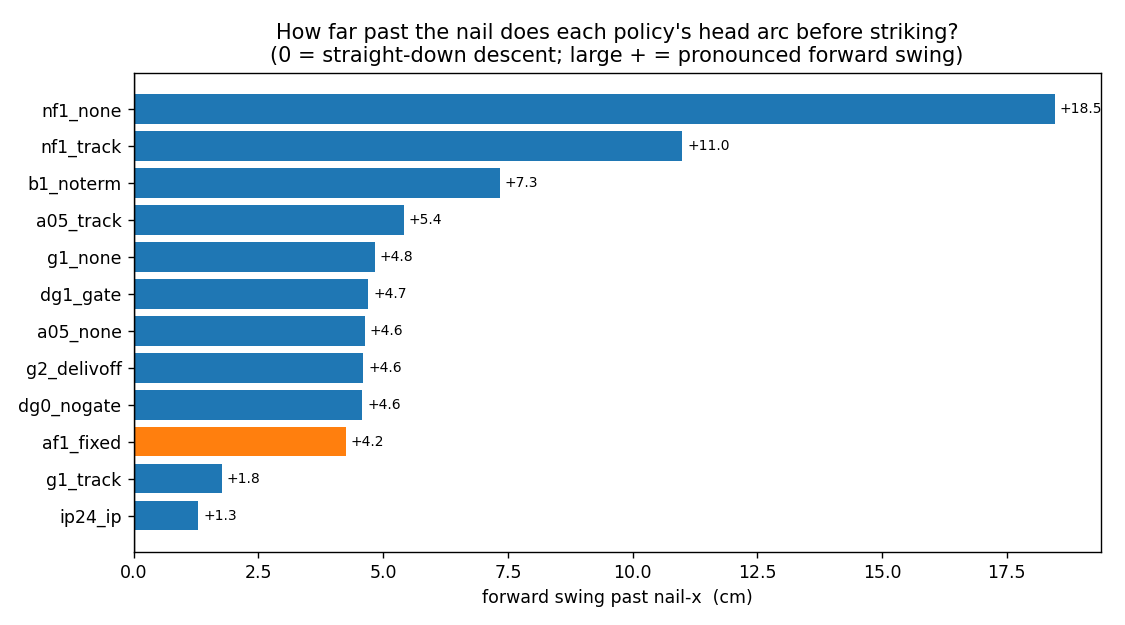
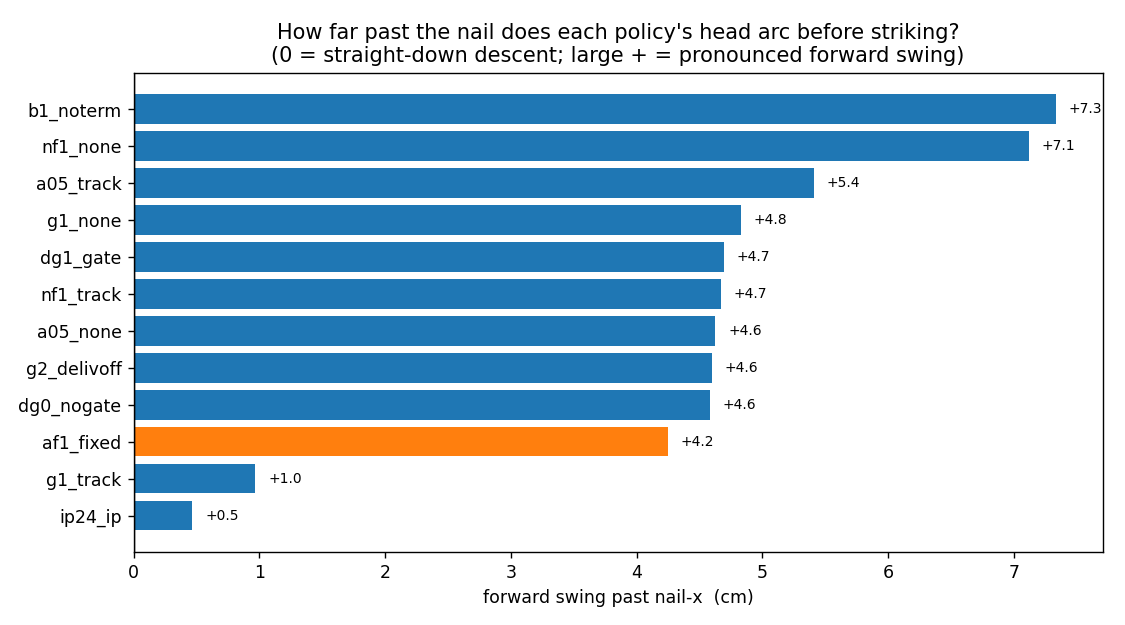
analysis(traj): fix swing metric to pre-contact only + add swing-vs-speed test
Gemini cross-check (SHOULD-FIX): grid/bar 'fwd-swing' maxed over the WHOLE path
but the caption claims 'before striking' -> for the non-resetting parkers (nf1)
the max is the post-tap fly-off, inflating the number (nf1_none 18.5cm) and
disagreeing with swing_vs_speed.py. Fixed: shared pre_swing() truncates to
first-contact (nf1_none now 7.1cm), matching swing_vs_speed. Also min(allz) ->
min(allz+[nail_z]) symmetry. New swing_vs_speed.py/.png: partial test of 'swing
is for impact maximization' -> swing does NOT buy contact speed (straightest
policies hit as fast), early evidence the arc is kinematic not speed-seeking.

diff --git a/docs/results/assets/2026-07-20_policy_videos/swing_vs_speed.py b/docs/results/assets/2026-07-20_policy_videos/swing_vs_speed.py
@@ -1,0 +1,49 @@
+"""Partial test of 'the swing is for impact maximization': on the already-traced July policies,
+does a bigger PRE-CONTACT forward swing buy a higher contact speed? Reads traj_all.json (substep
+head path at 2ms). Fixes the earlier metric: swing measured only UP TO first contact (so nf1's
+post-tap fly-off no longer contaminates it)."""
+from __future__ import annotations
+import json
+import matplotlib; matplotlib.use("Agg")
+import matplotlib.pyplot as plt
+
+IN = "/private/tmp/claude-501/-Users-nikerane-repos-unitree-rl-mjlab/2cd822e7-752b-4070-969b-f93a7bd62f87/scratchpad/traj_all.json"
+OUTDIR = "docs/results/assets/2026-07-20_policy_videos"
+DT = 0.002
+d = json.load(open(IN)); arms = d["arms"]; nail_x = d["nail_top"][0]
+
+rows = []
+for label, a in arms.items():
+    sub = a["substep"]  # [x,y,z,contact]
+    fc = next((i for i, p in enumerate(sub) if p[3]), None)
+    if fc is None or fc < 1:
+        rows.append((label, a["max_nail_mm"], float("nan"), float("nan"), None)); continue
+    v_touch = (sub[fc - 1][2] - sub[fc][2]) / DT          # downward speed at contact onset
+    swing_pre = max(p[0] for p in sub[:fc + 1]) - nail_x    # forward excursion BEFORE contact
+    rows.append((label, a["max_nail_mm"], swing_pre * 100, v_touch, fc))
+
+rows.sort(key=lambda r: (-(r[3] if r[3] == r[3] else -1)))
+print(f"{'policy':13s} {'depth_mm':>8} {'swing_pre_cm':>12} {'v_touch_m/s':>11} {'contact@substep':>15}")
+for label, depth, sw, vt, fc in rows:
+    print(f"{label:13s} {depth:8.1f} {sw:12.1f} {vt:11.3f} {str(fc):>15}")
+
+# scatter: pre-contact swing vs contact speed (drivers = drove >=20mm), labelled
+good = [(l, sw, vt, depth) for (l, depth, sw, vt, fc) in rows if vt == vt and depth >= 20]
+weak = [(l, sw, vt, depth) for (l, depth, sw, vt, fc) in rows if vt == vt and depth < 20]
+fig, ax = plt.subplots(figsize=(8, 6))
+for (l, sw, vt, depth) in good:
+    ax.scatter(sw, vt, s=90, c="#1f77b4" if l != "af1_fixed" else "#ff7f0e", zorder=3,
+               edgecolor="k", lw=0.6)
+    ax.annotate(l, (sw, vt), fontsize=8, xytext=(4, 4), textcoords="offset points")
+for (l, sw, vt, depth) in weak:
+    ax.scatter(sw, vt, s=60, c="#cccccc", zorder=2, edgecolor="k", lw=0.4)
+    ax.annotate(f"{l} ({depth:.0f}mm)", (sw, vt), fontsize=7, color="#888",
+                xytext=(4, -8), textcoords="offset points")
+ax.set_xlabel("pre-contact forward swing past nail-x  (cm)")
+ax.set_ylabel("contact speed  v_touch  (m/s, downward)")
+ax.set_title("Does the swing buy impact speed?\n"
+             "blue/orange = drove nail ≥20mm · grey = under-driver   "
+             "(flat cloud ⇒ swing does NOT buy speed)")
+ax.grid(alpha=0.3)
+fig.tight_layout(); fig.savefig(f"{OUTDIR}/swing_vs_speed.png", dpi=125)
+print(f"\n-> {OUTDIR}/swing_vs_speed.png")

diff --git a/docs/results/assets/2026-07-20_policy_videos/plot_head_trajectories.py b/docs/results/assets/2026-07-20_policy_videos/plot_head_trajectories.py
@@ -17,11 +17,18 @@ order = ["af1_fixed","a05_none","a05_track","b1_noterm","g2_delivoff","dg0_nogat
          "nf1_none","nf1_track","g1_none","g1_track","dg1_gate","ip24_ip"]
 order = [a for a in order if a in arms]
 
+def pre_swing(a):
+    """Forward excursion past nail-x measured UP TO first contact only (matches swing_vs_speed.py) —
+    so a parker's post-tap fly-off doesn't inflate the 'before striking' number the caption claims."""
+    sub = a["substep"]
+    fc = next((i for i, p in enumerate(sub) if p[3]), len(sub) - 1)
+    return max(p[0] for p in sub[:fc + 1]) - nail_x
+
 # shared limits
 allx = [p[0] for a in arms.values() for p in a["substep"]]
 allz = [p[2] for a in arms.values() for p in a["substep"]]
 xlim = (min(allx+[nail_x])-0.01, max(allx+[nail_x])+0.01)
-zlim = (min(allz)-0.01, max(allz+[nail_z])+0.02)
+zlim = (min(allz+[nail_z])-0.01, max(allz+[nail_z])+0.02)
 
 fig, axes = plt.subplots(3, 4, figsize=(15, 10), sharex=True, sharey=True)
 for ax, label in zip(axes.flat, order):
@@ -37,8 +44,8 @@ for ax, label in zip(axes.flat, order):
     ax.plot([nail_x, nail_x], [nail_z, nail_z-0.06], color="#8c564b", lw=3, solid_capstyle="butt")
     ax.scatter([nail_x], [nail_z], marker="v", s=70, c="#8c564b", zorder=4)
     ax.axvline(nail_x, color="#bbbbbb", ls=":", lw=0.8, zorder=0)
-    # swing excursion
-    fwd = max(p[0] for p in a["substep"]) - nail_x
+    # swing excursion (pre-contact only)
+    fwd = pre_swing(a)
     ok = a["max_nail_mm"] >= 30.0
     tag = "★ " if label == "af1_fixed" else ""
     ax.set_title(f"{tag}{label}   depth {a['max_nail_mm']:.0f}mm"
@@ -60,8 +67,8 @@ print(f"-> {OUTDIR}/trajectories_grid.png")
 
 # summary: forward-swing excursion per policy
 fig2, ax = plt.subplots(figsize=(9, 5))
-labs = sorted(order, key=lambda l: max(p[0] for p in arms[l]["substep"]) - nail_x)
-fwd = [(max(p[0] for p in arms[l]["substep"]) - nail_x) * 100 for l in labs]
+labs = sorted(order, key=lambda l: pre_swing(arms[l]))
+fwd = [pre_swing(arms[l]) * 100 for l in labs]
 cols = ["#1f77b4" if l != "af1_fixed" else "#ff7f0e" for l in labs]
 ax.barh(labs, fwd, color=cols)
 ax.axvline(0, color="k", lw=0.8); ax.set_xlabel("forward swing past nail-x  (cm)")
